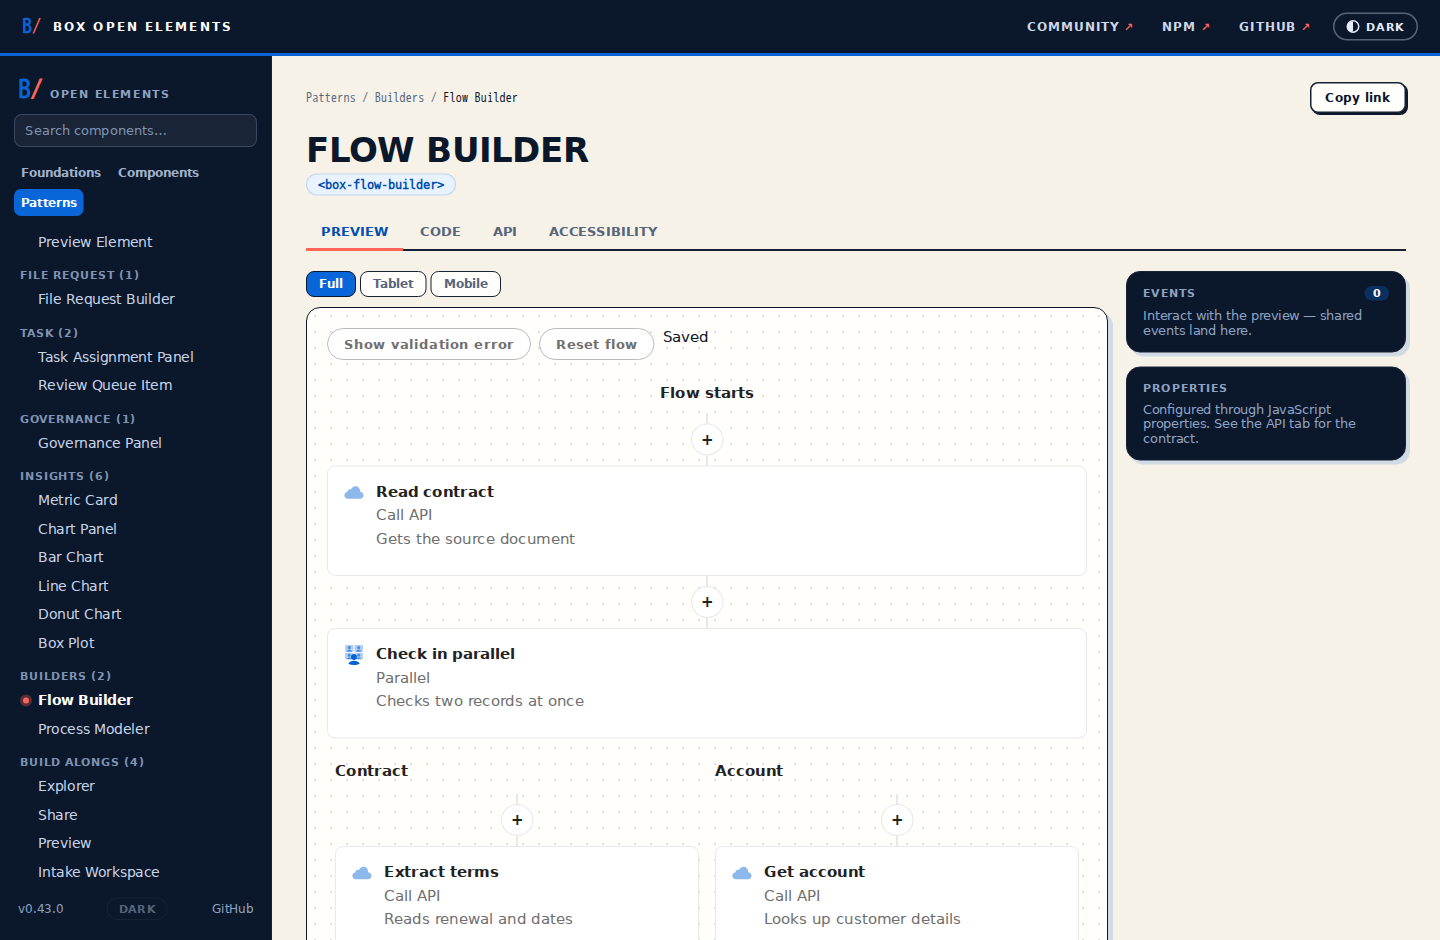
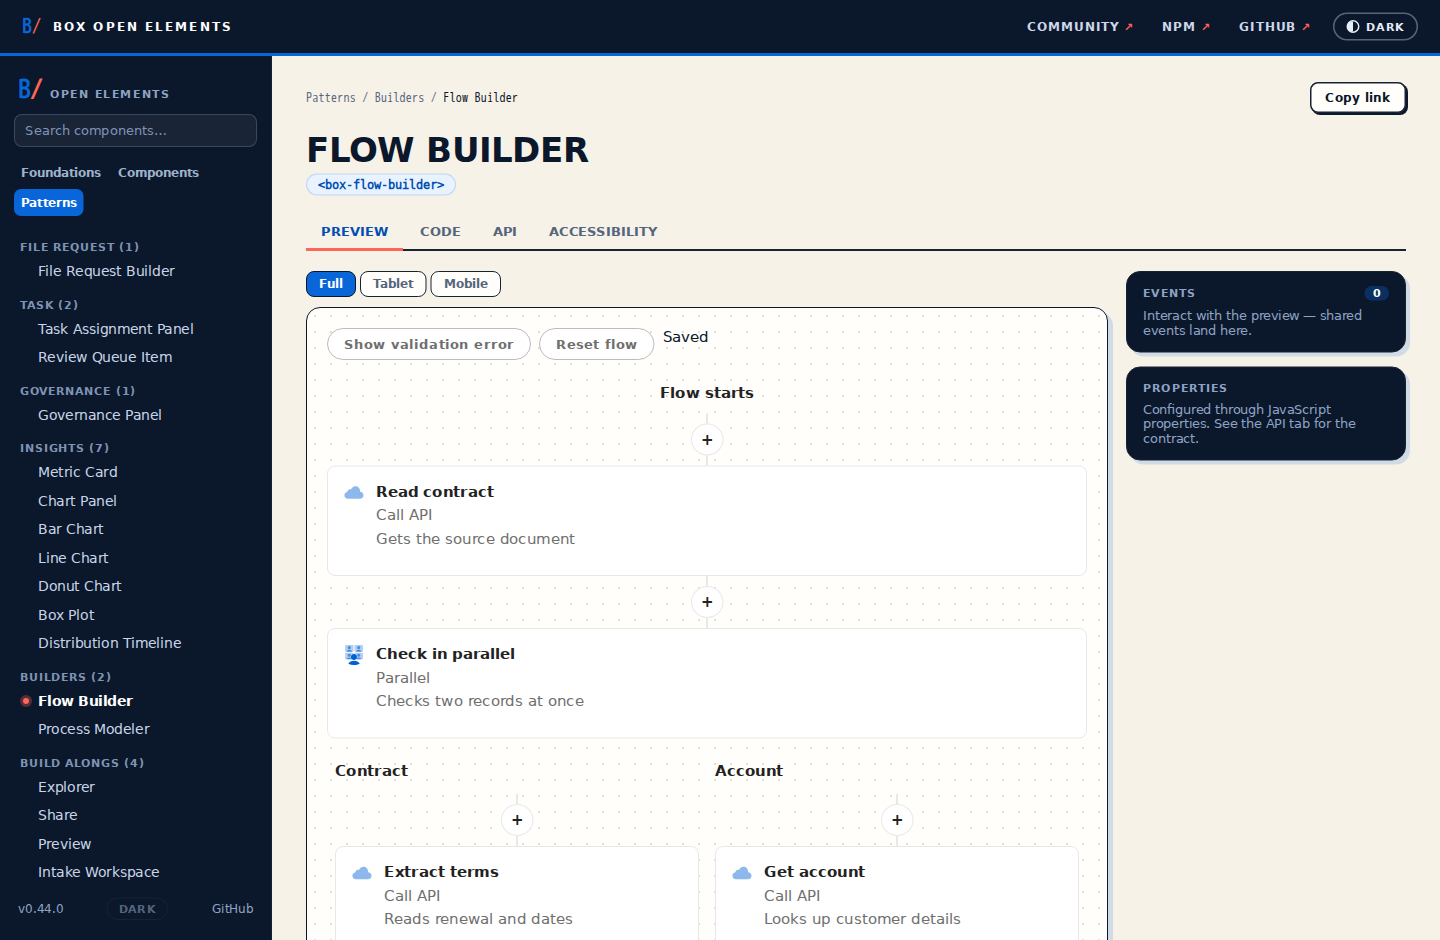
chore: prepare the 0.44.0 distribution timeline release (#608)
Bump the core and all six adapters to 0.44.0 in lockstep, move every core peer
to ^0.44.0, record the release in CHANGELOG.md and point README's versioned
links at the v0.44.0 tag. bun.lock still pins the published 0.43.0 core, which
the lockstep gate allows for one release.

Give the distribution timeline the docs-site visual coverage its sibling charts
have, and adopt the five page baselines the pixel gate found above tolerance
after the docs rail gained an Insights entry.

Changed region(s): [[0.0, 0.2468, 0.125, 0.7713], [0.0312, 0.8021, 0.0938, 0.8638], [0.0312, 0.8947, 0.0625, 0.9255]]

diff --git a/tools/preview/docs-site-shots.ts b/tools/preview/docs-site-shots.ts
@@ -498,7 +498,7 @@ try {
     // that a whole-page screenshot can push below the fold.
     for (const width of [1440, 390]) for (const theme of ["light", "dark"]) {
       await page.setViewportSize({ width, height: 940 });
-      for (const id of ["chart-panel", "bar-chart", "line-chart", "donut-chart", "box-plot", "metric-card"]) {
+      for (const id of ["chart-panel", "bar-chart", "line-chart", "donut-chart", "box-plot", "distribution-timeline", "metric-card"]) {
         await page.goto(`http://localhost:${PORT}/#patterns/${id}`, { waitUntil: "networkidle" });
         await page.waitForSelector(`body[data-route-ready="patterns/${id}"]`);
         await page.evaluate(target => {

diff --git a/README.md b/README.md
@@ -12,7 +12,7 @@
 
 Browse the full catalog on the **[live docs site](https://unofficialbox.github.io/box-open-elements)** — live previews, an events/properties inspector, per-framework code snippets (React / Angular / Vue / Svelte / HTML), and the foundations pages.
 
-The library is organized around three layers (see [taxonomy](https://github.com/unofficialbox/box-open-elements/blob/v0.43.0/docs/taxonomy.md) for the canonical model):
+The library is organized around three layers (see [taxonomy](https://github.com/unofficialbox/box-open-elements/blob/v0.44.0/docs/taxonomy.md) for the canonical model):
 
 - **Foundations** — design decisions as data: tokens, color, typography, iconography, accessibility, theming
 - **Components** — accessible Web Components for single controls, organized by category
@@ -77,7 +77,7 @@ selection.toggleSelection("1");
 - optimized component entrypoints: `@unofficialbox/box-open-elements/<name>`
 - patterns: `@unofficialbox/box-open-elements/patterns/<area>` and `@unofficialbox/box-open-elements/patterns/<area>/<module>`
 
-See the versioned [API guidelines](https://github.com/unofficialbox/box-open-elements/blob/v0.43.0/docs/api-guidelines.md).
+See the versioned [API guidelines](https://github.com/unofficialbox/box-open-elements/blob/v0.44.0/docs/api-guidelines.md).
 
 ## Developing
 
@@ -91,17 +91,17 @@ bun run docs     # build + serve the docs site at http://localhost:4600
 
 ## Documentation
 
-The versioned docs index is at [docs/README.md](https://github.com/unofficialbox/box-open-elements/blob/v0.43.0/docs/README.md). The most important entries:
+The versioned docs index is at [docs/README.md](https://github.com/unofficialbox/box-open-elements/blob/v0.44.0/docs/README.md). The most important entries:
 
-- [Taxonomy](https://github.com/unofficialbox/box-open-elements/blob/v0.43.0/docs/taxonomy.md)
-- [Architecture](https://github.com/unofficialbox/box-open-elements/blob/v0.43.0/docs/architecture.md)
-- [API Guidelines](https://github.com/unofficialbox/box-open-elements/blob/v0.43.0/docs/api-guidelines.md)
-- [Components catalog](https://github.com/unofficialbox/box-open-elements/blob/v0.43.0/docs/components/catalog.md) and [patterns catalog](https://github.com/unofficialbox/box-open-elements/blob/v0.43.0/docs/patterns/catalog.md)
-- [Using with React, Angular, Vue, Svelte, SolidJS, and Preact](https://github.com/unofficialbox/box-open-elements/blob/v0.43.0/docs/integration/frameworks.md)
-- [Design Tokens](https://github.com/unofficialbox/box-open-elements/blob/v0.43.0/docs/foundations/tokens.md)
-- [Content Explorer](https://github.com/unofficialbox/box-open-elements/blob/v0.43.0/docs/patterns/content-explorer.md)
-- [Box Server Integration](https://github.com/unofficialbox/box-open-elements/blob/v0.43.0/docs/integration/box-server.md)
-- [Agent UI guidelines](https://github.com/unofficialbox/box-open-elements/blob/v0.43.0/docs/patterns/agent-ui-guidelines.md), [building blocks](https://github.com/unofficialbox/box-open-elements/blob/v0.43.0/docs/patterns/agent-ui.md), and [motion](https://github.com/unofficialbox/box-open-elements/blob/v0.43.0/docs/foundations/motion.md)
+- [Taxonomy](https://github.com/unofficialbox/box-open-elements/blob/v0.44.0/docs/taxonomy.md)
+- [Architecture](https://github.com/unofficialbox/box-open-elements/blob/v0.44.0/docs/architecture.md)
+- [API Guidelines](https://github.com/unofficialbox/box-open-elements/blob/v0.44.0/docs/api-guidelines.md)
+- [Components catalog](https://github.com/unofficialbox/box-open-elements/blob/v0.44.0/docs/components/catalog.md) and [patterns catalog](https://github.com/unofficialbox/box-open-elements/blob/v0.44.0/docs/patterns/catalog.md)
+- [Using with React, Angular, Vue, Svelte, SolidJS, and Preact](https://github.com/unofficialbox/box-open-elements/blob/v0.44.0/docs/integration/frameworks.md)
+- [Design Tokens](https://github.com/unofficialbox/box-open-elements/blob/v0.44.0/docs/foundations/tokens.md)
+- [Content Explorer](https://github.com/unofficialbox/box-open-elements/blob/v0.44.0/docs/patterns/content-explorer.md)
+- [Box Server Integration](https://github.com/unofficialbox/box-open-elements/blob/v0.44.0/docs/integration/box-server.md)
+- [Agent UI guidelines](https://github.com/unofficialbox/box-open-elements/blob/v0.44.0/docs/patterns/agent-ui-guidelines.md), [building blocks](https://github.com/unofficialbox/box-open-elements/blob/v0.44.0/docs/patterns/agent-ui.md), and [motion](https://github.com/unofficialbox/box-open-elements/blob/v0.44.0/docs/foundations/motion.md)
 
 ## Contributing
 

diff --git a/CHANGELOG.md b/CHANGELOG.md
@@ -15,7 +15,11 @@ are kept as written.
 
 ## Unreleased
 
-- Add a read-only Distribution Timeline that plots one measurement's host-computed interval summaries over time: the minimum-to-maximum range, the Q1–Q3 band, the median line, and optional raw samples thinned to an even spread across the time axis. The component aggregates nothing and leaves interval resolution to the host.
+## 0.44.0 — 2026-10-29
+
+- Add a read-only Distribution Timeline that plots one measurement's host-computed interval summaries over time: the minimum-to-maximum range, the Q1–Q3 band, the median line, and optional raw samples thinned to an even spread across the time axis (#606). The component aggregates nothing and leaves interval resolution to the host; `max-samples` caps the plotted dots and the thinning keeps a near-equal number in each slice of the time axis.
+- Fix the docs snippet check, which resolved the core from an adapter and so typechecked the repository's own snippets against the last published release (#606). A component added in a branch had no tag to document, and one removed in a branch still looked usable.
+- Ship core and all six framework adapters together at `0.44.0`, with every core peer at `^0.44.0`.
 
 ## 0.43.0 — 2026-10-28
 
